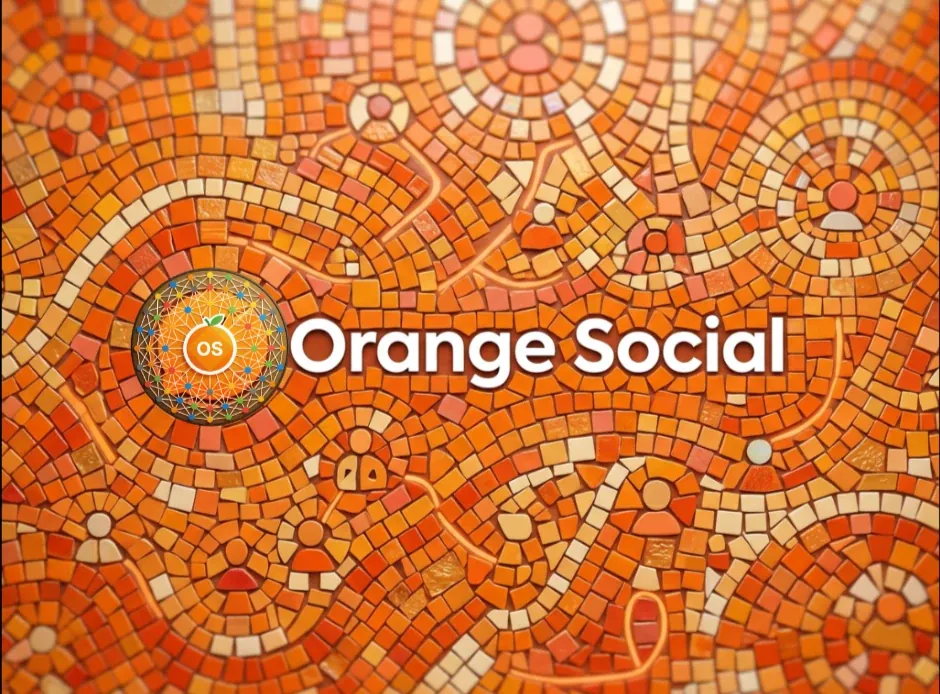
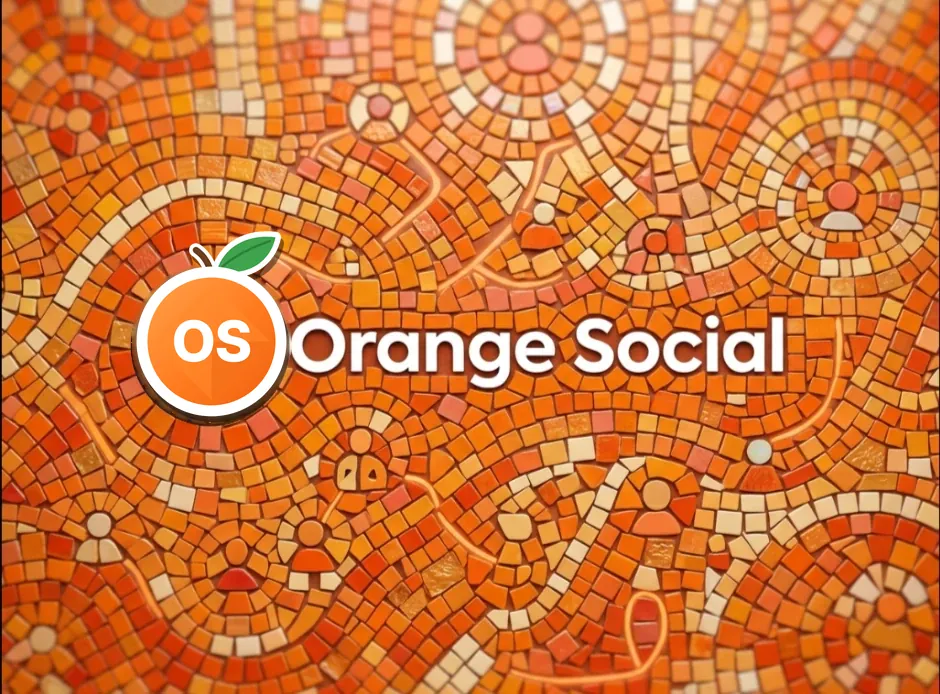
Apply the plain official mark to the orange mosaic, as on the sand one
The orange mosaic showed the network-disc version of the logo. It now gets
the same treatment as the sand mosaic: the disc rim is rebuilt from the
surrounding tiles and the official "OS" mark sits in its place.
visao-geral.png is regenerated by the script.

Claude-Session: https://claude.ai/code/session_01Pp3hEbSzU1F7YjNppakuGQ

Changed region(s): [[0.1234, 0.3329, 0.3085, 0.6052]]

diff --git a/design/brand/edit_backgrounds.py b/design/brand/edit_backgrounds.py
@@ -7,6 +7,7 @@
 Entradas em backgrounds/src/ (artes originais). Saídas em backgrounds/:
     {nome}.webp       resolução original (~1200 px), para o fundo do app
     {nome}-thumb.webp 320 px, para a escolha em Configurações → Exibição
+    visao-geral.png   as seis artes lado a lado
 
 Como funciona:
   * "placa" (mosaicos clássico, profundo, brilho, céu): o ícone de rede genérico dentro da placa escura é
@@ -14,6 +15,8 @@ Como funciona:
     e o logo oficial (orange-social-mark-528.png) entra centrado no mesmo lugar.
   * "balão" (mosaico areia): o balãozinho de mensagem é coberto pelo logo oficial; a "cauda" do balão,
     que ficaria aparecendo, é reconstruída por inpainting a partir das pastilhas em volta.
+  * "disco" (mosaico laranja): o disco com a rede do logo vira o logo oficial simples, no mesmo padrão do
+    mosaico areia; a borda escura do disco que sobraria em volta é reconstruída a partir das pastilhas.
 Coordenadas medidas nas artes originais (grade de 20 px).
 """
 from __future__ import annotations
@@ -38,6 +41,7 @@ ART = [
     ("mosaico-brilho", "placa", (415, 411), 56, (364, 466), 48),
     ("mosaico-ceu", "placa", (411, 406), 56, (358, 462), 48),
     ("mosaico-areia", "balao", (269, 425), 72, None, 72),
+    ("mosaico-laranja", "disco", (211, 342), 80, None, 75),
 ]
 
 
@@ -68,6 +72,14 @@ def bubble_tail_mask(img: np.ndarray, center, radius: int) -> np.ndarray:
     yy, xx = np.mgrid[0:h, 0:w]
     mask[(xx - cx) ** 2 + (yy - cy) ** 2 <= (radius - 2) ** 2] = 0   # o logo cobre o resto
     return cv2.dilate(mask, np.ones((3, 3), np.uint8), iterations=2)
+
+
+def disc_rim_mask(img: np.ndarray, center, outer: int, logo_r: int) -> np.ndarray:
+    """Anel entre a borda do logo novo e a borda do disco antigo (o centro fica sob o logo)."""
+    h, w, _ = img.shape
+    yy, xx = np.mgrid[0:h, 0:w]
+    d2 = (xx - center[0]) ** 2 + (yy - center[1]) ** 2
+    return ((d2 <= outer ** 2) & (d2 >= (logo_r - 3) ** 2)).astype(np.uint8) * 255
 
 
 def add_grain(img: np.ndarray, mask: np.ndarray, reference: np.ndarray) -> np.ndarray:
@@ -104,9 +116,12 @@ def main() -> None:
             fixed = cv2.inpaint(bgr, mask, 9, cv2.INPAINT_TELEA)
             plaque_px = bgr[(cv2.dilate(mask, np.ones((15, 15), np.uint8)) > 0) & (mask == 0)]
             fixed = add_grain(fixed, mask, plaque_px)
-        else:
+        elif kind == "balao":
             mask = bubble_tail_mask(rgb, center, logo_r)
             fixed = cv2.inpaint(bgr, mask, 7, cv2.INPAINT_TELEA)
+        else:
+            mask = disc_rim_mask(rgb, center, icon_r, logo_r)
+            fixed = cv2.inpaint(bgr, mask, 9, cv2.INPAINT_TELEA)
         edited = paste_mark(Image.fromarray(cv2.cvtColor(fixed, cv2.COLOR_BGR2RGB)), center, logo_r)
 
         full = edited  # resolução original (1184–1200 px): ampliar só aumentaria o arquivo
@@ -114,6 +129,14 @@ def main() -> None:
         thumb = edited.resize((320, round(edited.height * 320 / edited.width)), Image.LANCZOS)
         thumb.save(OUT / f"{name}-thumb.webp", "WEBP", quality=78, method=6)
         print("ok", name)
+
+    overview = Image.new("RGB", (3 * 410 + 10, 2 * 305 + 10), (23, 18, 13))
+    order = ["mosaico-laranja", "mosaico-classico", "mosaico-profundo", "mosaico-brilho", "mosaico-ceu", "mosaico-areia"]
+    for i, name in enumerate(order):
+        im = Image.open(OUT / f"{name}.webp")
+        im.thumbnail((400, 300))
+        overview.paste(im, (10 + (i % 3) * 410, 10 + (i // 3) * 305))
+    overview.save(OUT / "visao-geral.png", optimize=True)
 
 
 if __name__ == "__main__":
